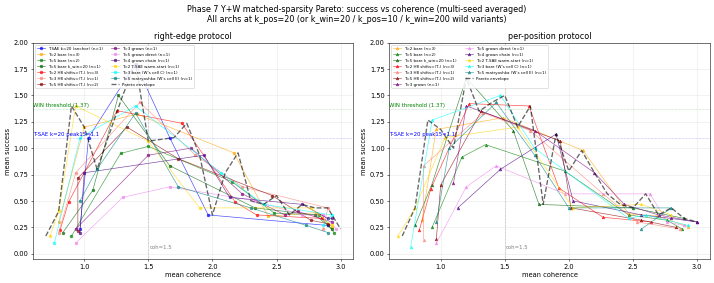
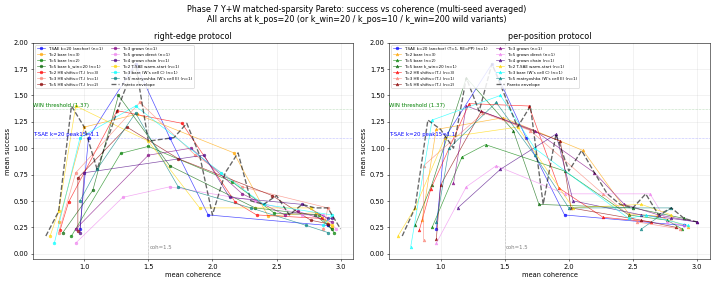
Phase 7 Y: show T-SAE k=20 anchor on BOTH panels (T=1: RE=PP trivially)

diff --git a/experiments/phase7_unification/case_studies/steering/plot_unified_pareto.py b/experiments/phase7_unification/case_studies/steering/plot_unified_pareto.py
@@ -170,10 +170,15 @@ def main():
         # Plot each arch's curve
         all_pts = []
         for (arch_id, proto), (s, succ, coh, n, label, color) in all_curves.items():
-            if proto != proto_filter: continue
+            # T-SAE k=20 has T=1: right-edge == per-position (trivially); show on both panels
+            if proto != proto_filter and arch_id != "tsae_paper_k20":
+                continue
             marker = "o" if proto == "right-edge" else "^"
+            display_label = label
+            if arch_id == "tsae_paper_k20" and proto_filter == "per-position":
+                display_label = f"{label} (T=1, RE=PP)"
             ax.plot(coh, succ, marker=marker, markersize=4, color=color, alpha=0.7,
-                    linewidth=1, label=f"{label} (n={n})")
+                    linewidth=1, label=f"{display_label} (n={n})")
             for ss, su, co in zip(s, succ, coh):
                 if su is not None and co is not None:
                     all_pts.append((co, su, label))

diff --git a/docs/han/research_logs/phase7_unification/agent_y_phase2/2026-04-30-y-unified-pareto.md b/docs/han/research_logs/phase7_unification/agent_y_phase2/2026-04-30-y-unified-pareto.md
@@ -52,6 +52,16 @@ Two valid combinations — they diverge at the coh-cliff regime:
 The mean-curve approach is the standard reporting convention for this
 type of analysis. All numbers below use it.
 
+
+### T-SAE k=20 anchor across protocols
+
+T-SAE k=20 has T=1 — there's no window. Right-edge and per-position
+protocols are *the same* for T=1 (trivially: write at the only
+position). The anchor 1.10 (peak success at coh ≥ 1.5) applies to
+**both** protocols. The Pareto plot below shows the T-SAE k=20 curve
+on both panels for clarity (labeled "T=1, RE=PP" in the per-position
+panel).
+
 ### Headline ranking (peak success at coh ≥ 1.5)
 
 ![unified ranking](../../../../../experiments/phase7_unification/results/case_studies/plots/unified_ranking_matched_sparsity.png)
